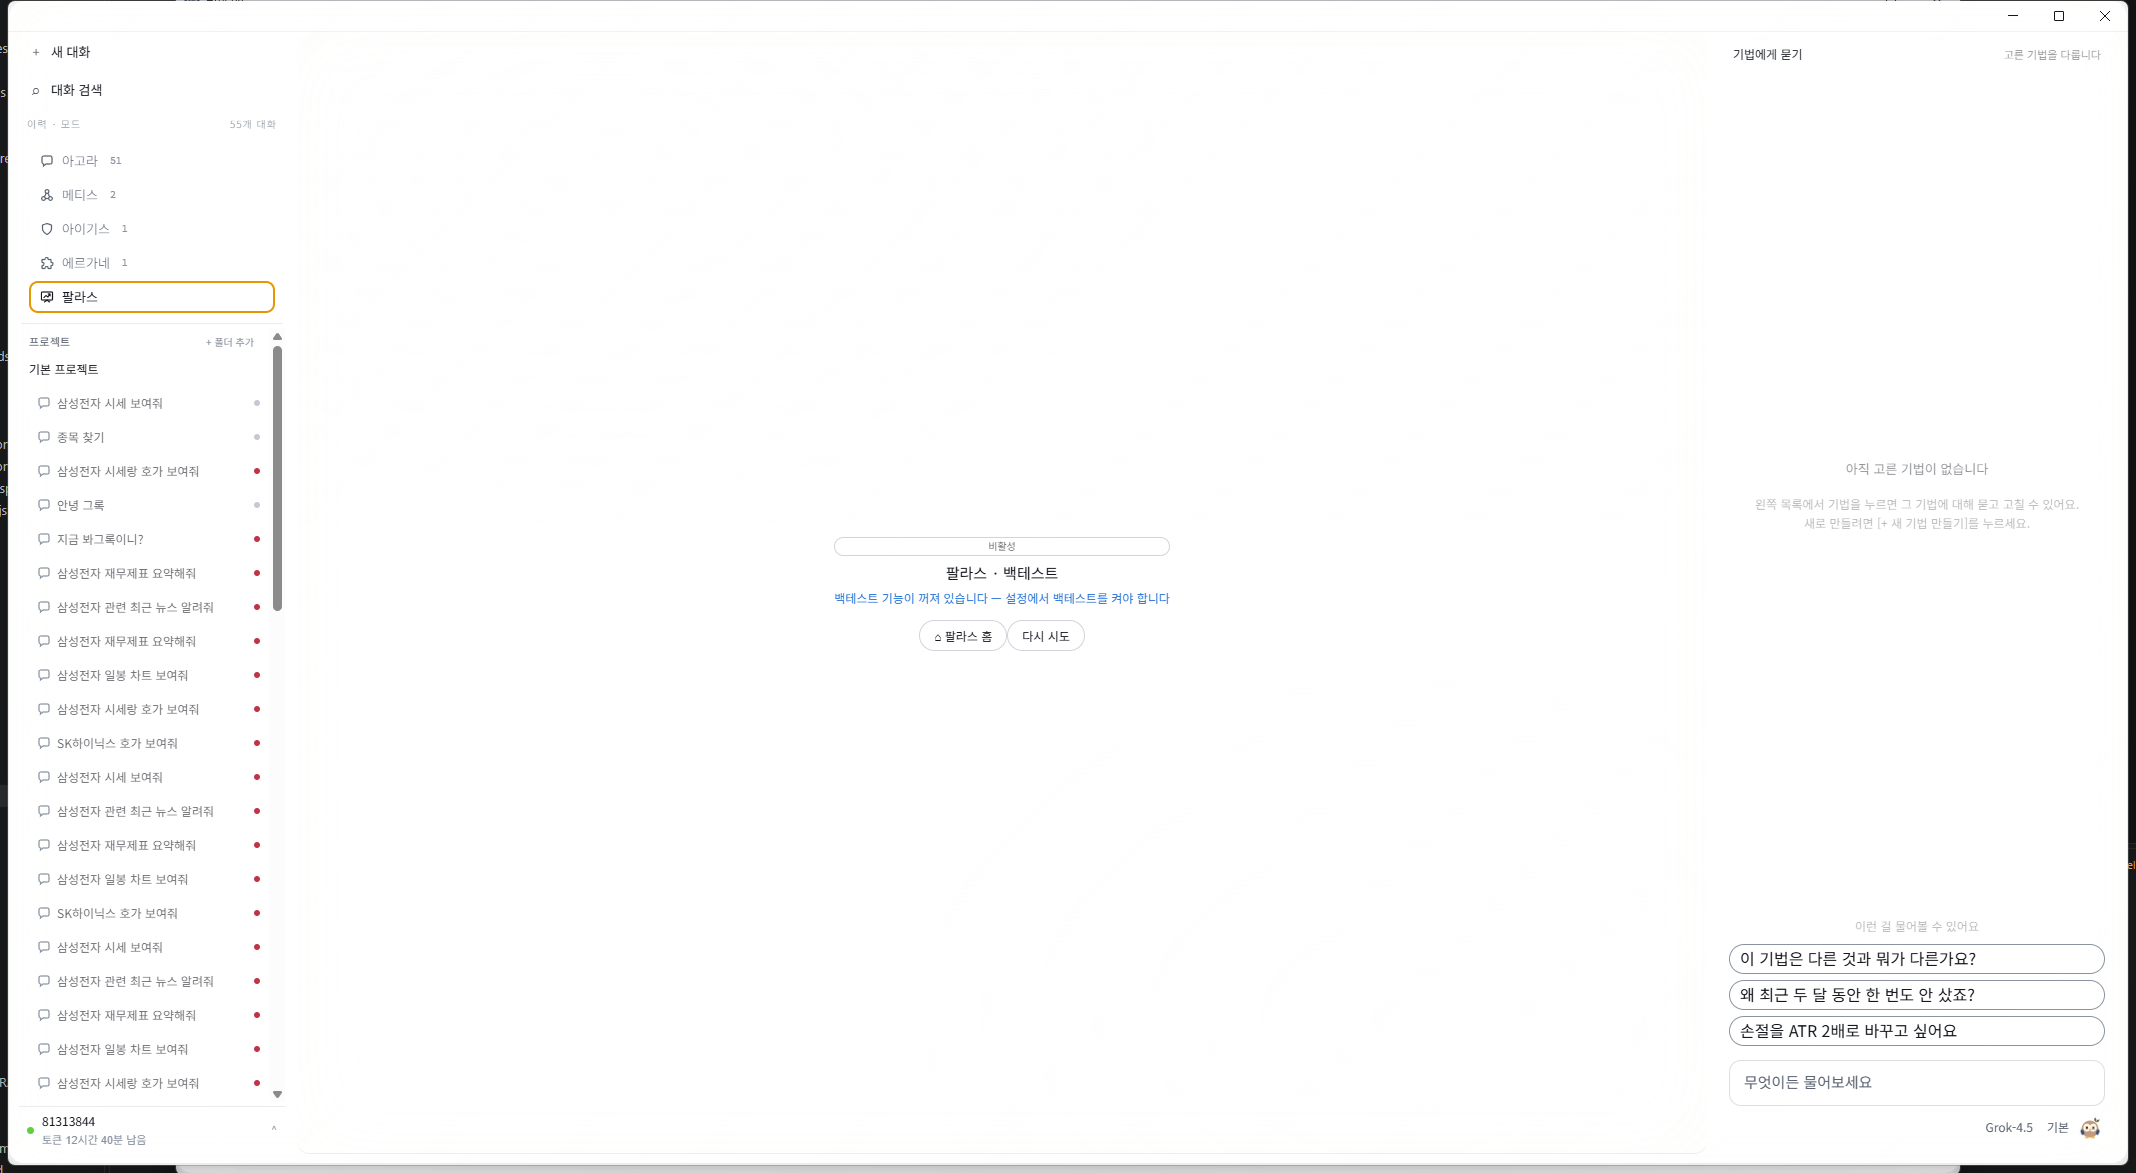
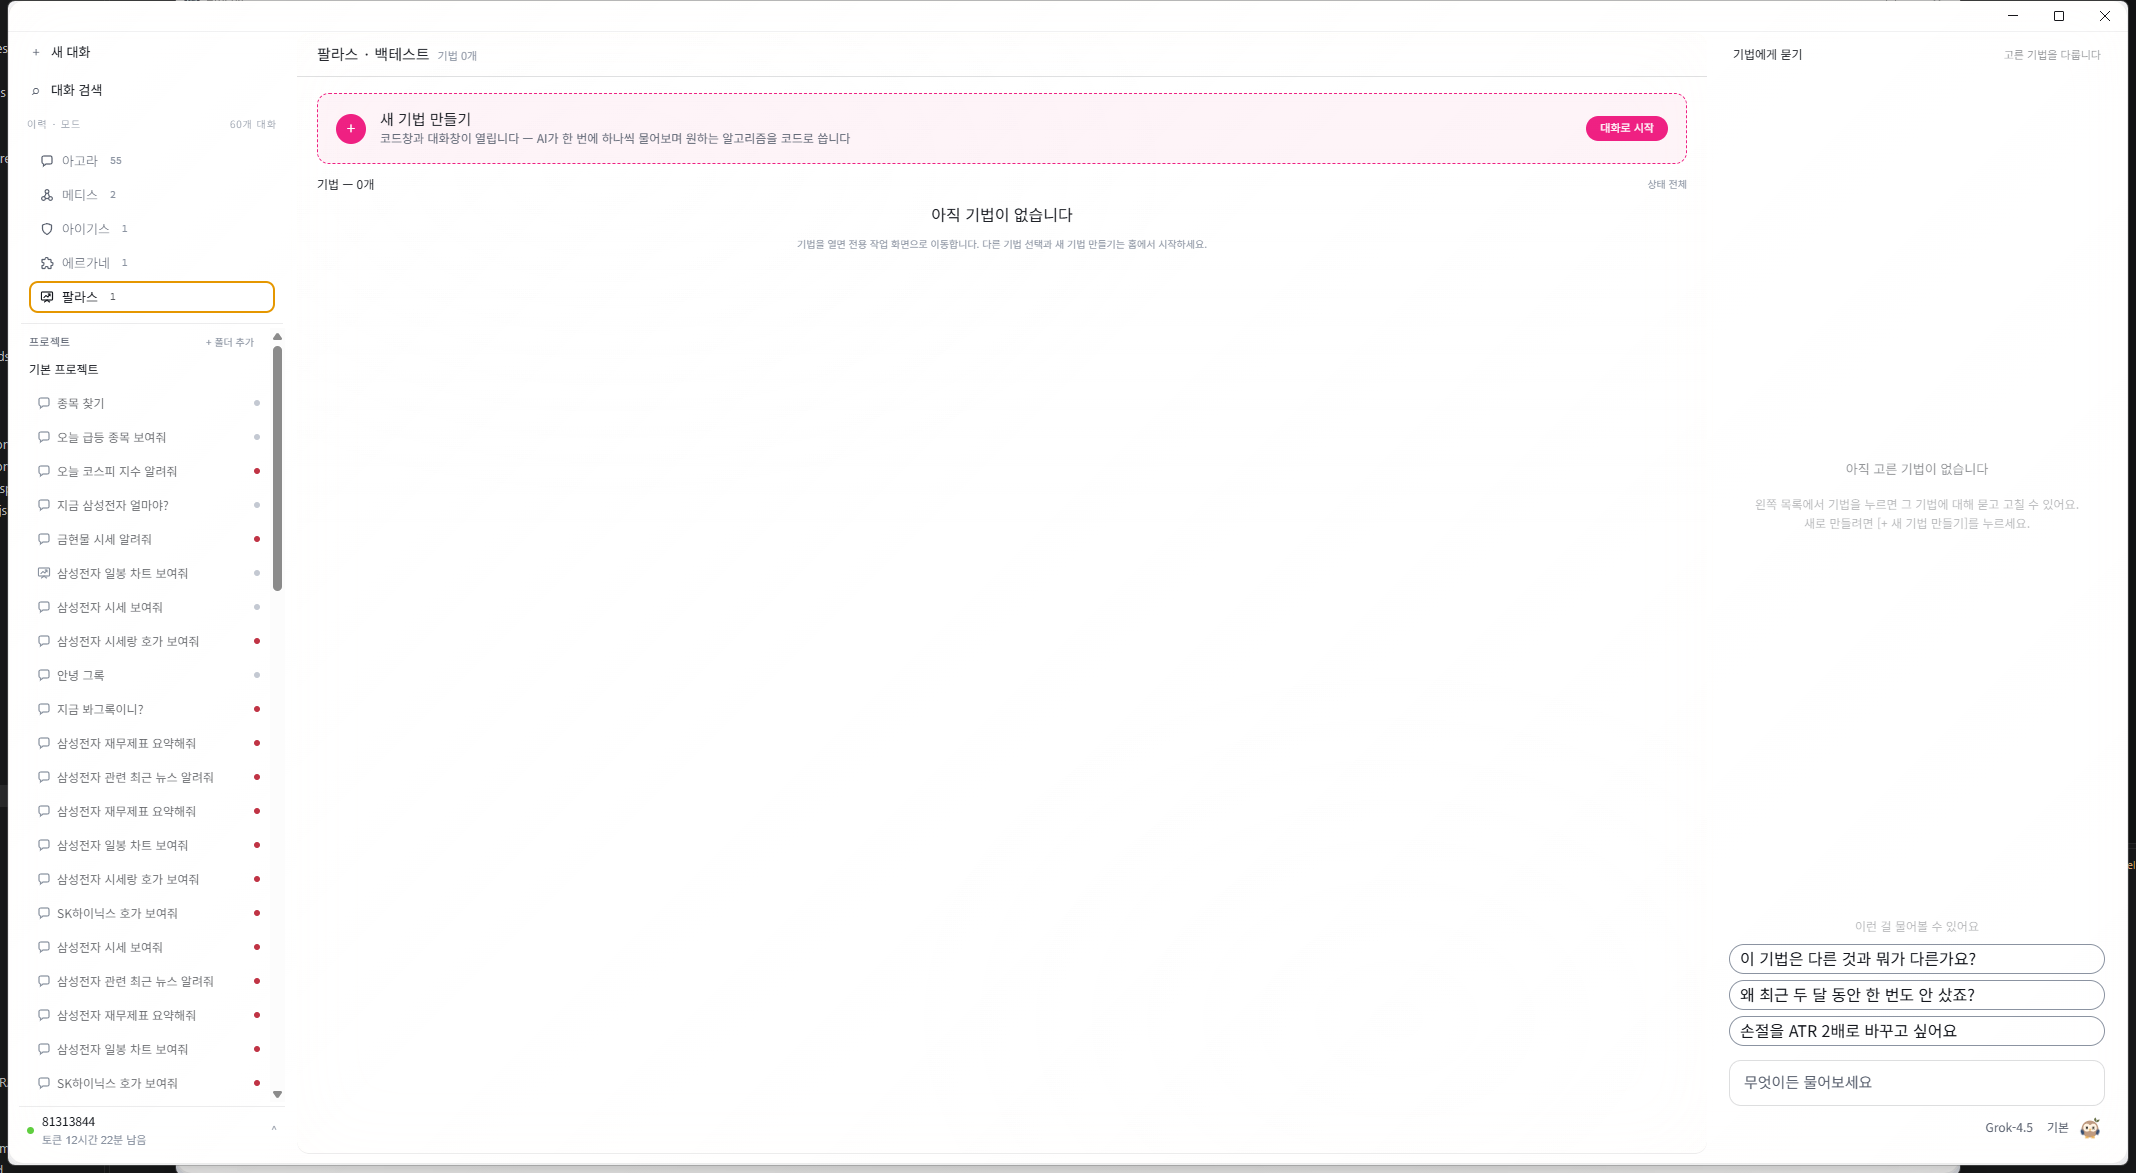
docs(handoff): Projects .env로 라이브 백엔드를 다시 검증한다
C:\Projects\DAOU.Athena 의 .env를 이 worktree에 복사한 뒤 8010을
이 백엔드로 올렸다. 팔라스는 기법 0개와 새 기법 대화상자가 열렸고
금 시세는 1kg/미니금 선택 질문이 나왔다. 금 주문 실행은 누르지 않았다.

diff --git a/docs/handoff/2026-09-09-grok-realtime/README.md b/docs/handoff/2026-09-09-grok-realtime/README.md
@@ -128,7 +128,7 @@ VALIDATION.md의 3,955/3,948 숫자와 인계 직전 HTTP 200은 **역사**다. 
 
 시작 시 `git status --short --branch`는 깨끗한 `codex/grok-realtime-handoff-20260909`였다. 제품 변경은 `gold-order-intent.js`와 그 테스트, 이 README, `evidence/` 캡처뿐이다.
 
-환경: Windows, 이 워크스페이스. `app`에 `npm.cmd ci --no-audit --no-fund`(125 packages). `backend`에 Python 3.12 venv + `pip install -e ".[dev]"`. 라이브 실행 전 형제 worktree의 gitignored `.env`를 복사했다(키 이름만 확인, 값은 문서에 없음). `ATHENA_ENABLE_ORDER_API=false`, Kiwoom base는 mock. TCP 8010은 이미 `API-검수` 백엔드가 Listen 중이어서 **종료하지 않고** 이 앱이 붙었다.
+환경: Windows, 이 워크스페이스. `app`에 `npm.cmd ci --no-audit --no-fund`(125 packages). `backend`에 Python 3.12 venv + `pip install -e ".[dev]"`. 사용자 지시로 `C:\Projects\DAOU.Athena\backend\.env`를 이 worktree `backend/.env`로 복사했다(gitignore, 값은 문서에 없음). Kiwoom base는 mock. 이후 이 worktree uvicorn이 8010을 연다(`ATHENA_BACKTEST_ENABLED=true`는 프로세스 환경). 기동 로그에 mock `oauth2/token` HTTP 200이 있었다. 금 주문 실행 버튼은 누르지 않았다.
 
 실행한 명령과 이번 결과:
 
@@ -154,15 +154,16 @@ P1 코드는 처음부터 다시 만들지 않았다. 기존 테스트가 통과
 | 화면 | 관측 |
 |---|---|
 | 에르가네 · 플러그인 | 추천 목록 없음. 「설치한 플러그인이 없습니다 · [+ 서버 추가]에서 직접 등록합니다」. [캡처](evidence/live-plugin.png) |
-| 팔라스 · 백테스트 | 「백테스트 기능이 꺼져 있습니다 — 설정에서 백테스트를 켜야 합니다」. 원인: 기존 :8010(`API-검수`)에 붙음. [캡처](evidence/live-backtest.png) |
+| 팔라스 · 백테스트 | `.env` 적용 후 켜짐. 「기법 — 0개」「아직 기법이 없습니다」(샘플 10개 아님). [캡처](evidence/live-backtest.png) |
+| 새 기법 만들기 | 프로젝트(SMA-골든크로스)·상위 폴더(프로젝트 루트)·이름 입력. 취소로 닫음. [캡처](evidence/live-technique-create.png) |
 | 부엉이 | 채팅 입력 우측 고정 크기. 커졌다 작아지는 효과 없음 |
-| 금현물 시세 | `금현물 시세 알려줘` → 「어느 금현물 시세를 볼까요? 금 99.99_1kg 또는 미니금 99.99_100g」. 상품 선택 후 실카드는 후속 LLM 턴이 다른 질의로 넘어가 이번 세션에서 못 닫음. [캡처](evidence/live-gold-quote.png) |
+| 금현물 시세 | `금현물 시세 알려줘` → 「어느 금현물 시세를 볼까요? 금 99.99_1kg 또는 미니금 99.99_100g」. 1kg 후속 제출은 입력칸/모드 전환에 가로채여 실카드까지는 못 닫음. [캡처](evidence/live-gold-quote.png) |
 | 종목 찾기 | 질의 `종목 찾기`는 순위 보드(13K0-2)를 바로 열지 않고 도구 후보를 물어봄. [캡처](evidence/live-jongmok-find.png) |
 | 급등/순위 조회 | 캔버스 알림 「조회 요청 조건을 처리하지 못했습니다. (HTTP 422)」. [캡처](evidence/live-ranking-422.png) |
-| 금 주문 수집 | 채팅 입력칸이 제안 문구로 자주 덮여 `금현물 시장가 매수` 제출이 반복 실패. P0 `개`/`주` 재질문은 유닛/소비자/티켓 프로브가 담당. 실행은 차단 유지 |
+| 금 주문 수집 | `set-value`로 `금현물 시장가 매수`가 입력칸에 들어가도 제출 시 제안 문구가 대신 전송됨. P0 `개`/`주` 재질문은 유닛/소비자/티켓 프로브. 실행 버튼은 누르지 않음 |
 
 남은 제약:
 
-- 라이브 백엔드가 이 worktree venv가 아니다. 백테스트 켜기·순위 422 재현은 이 앱이 자기 백엔드를 띄운 세션에서 다시 봐야 한다. 기존 :8010은 종료하지 않았다.
-- 금현물 주문 실행 API 계약·실행 권한은 여전히 없다. 초안 팝업 ≠ 주문 전송.
+- 채팅 입력 제안 칩이 금 주문/1kg 후속 제출을 가로챈다. 순위 보드 직접 마운트와 금 시세 실카드는 이 세션에서 미완.
+- 금현물 주문 초안의 실행 차단(`execution_supported: false`)은 유지. 실제 주문은 보내지 않았다.
 - 전체 JS 스위트는 인계 기록상 worker 동시성 이슈가 있어 이번에는 타깃 테스트만 돌렸다. 재실행 시 `--test-concurrency=4`를 권장한다.
